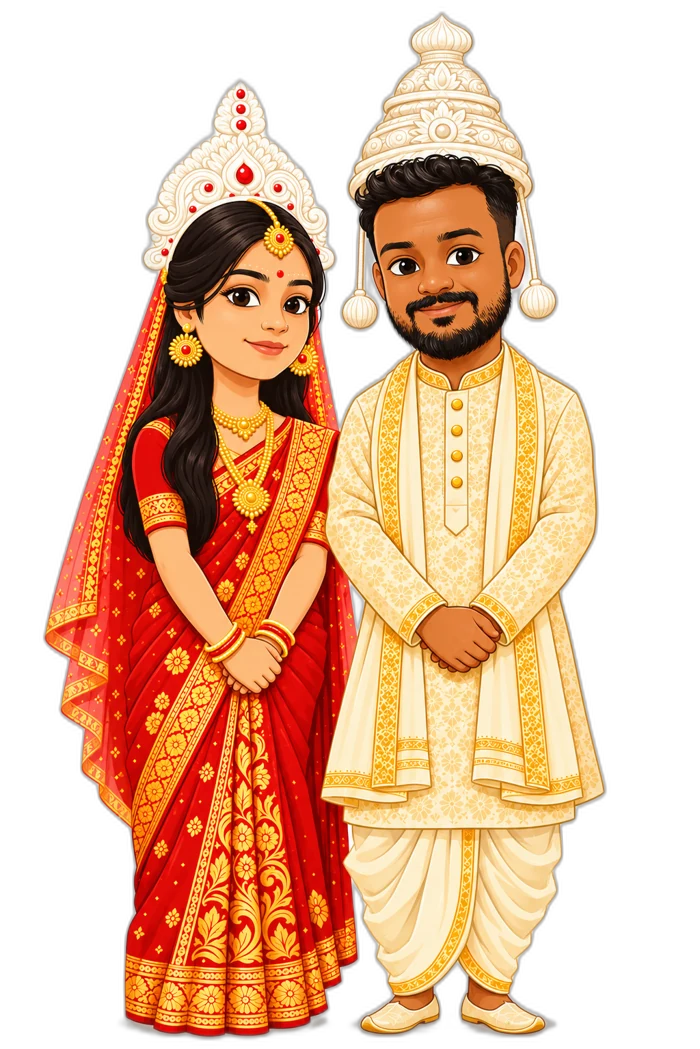
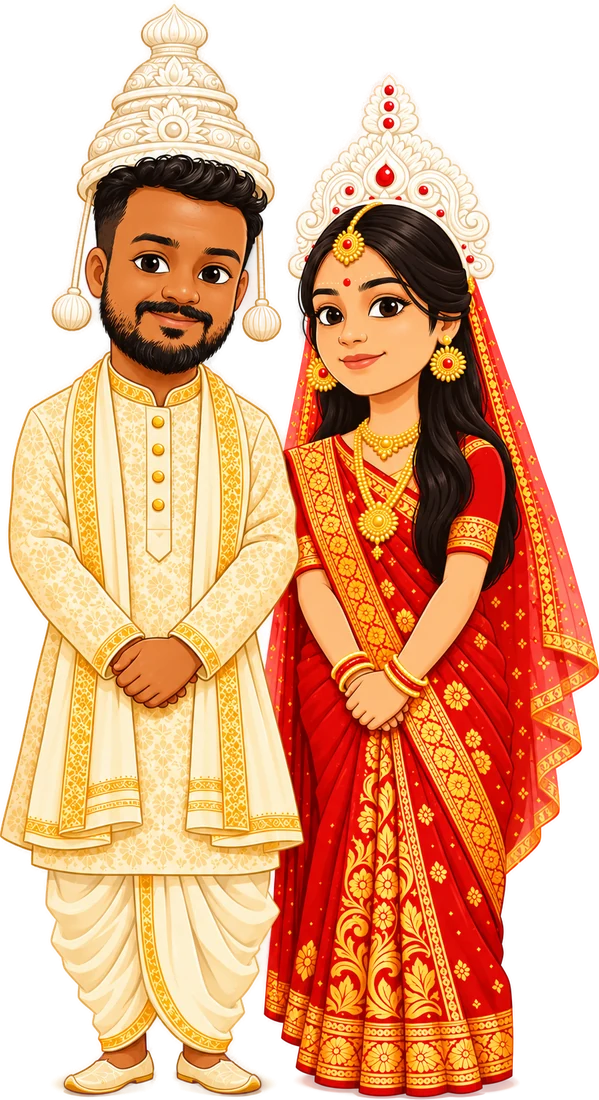
Review round 3: wording, dates, new couple picture, petal showers, seal burst
- শুভঃ → শুভ, আমার → আমাদের, new quote, বিবাহলগ্ন / Bibaha Lagna
- English shows the English date first, Bengali in brackets (and vice versa)
- প্রীতিভোজ = Banquet; bride card: বিবাহবাসর ও প্রীতিভোজ, বৈশালী ও অভিষেক
- Couple picture with groom left, bride right
- Seal tap: press, flash, sparkle and petal burst; petal shower again at the family panel
- Bride card: no glow at the top

Claude-Session: https://claude.ai/code/session_01A7U3bhfqdo6UgM5ft2nzAm

diff --git a/app.js b/app.js
@@ -11,13 +11,13 @@
       openHint: "সিলমোহরে ছুঁয়ে খুলুন",
       ganesh: "ওঁ শ্রী গণেশায় নমঃ",
       prajapati: "শ্রী শ্রী প্রজাপতয়ে নমঃ",
-      occasion: "শুভঃ বিবাহ",
+      occasion: "শুভ বিবাহ",
       familyTitle: "যাদের জন্য বাজবে সানাই&nbsp;।।",
       kalyaniyo: "কল্যাণীয়", kalyaniya: "কল্যাণীয়া",
       father: "পিতা", mother: "মাতা", brother: "ভ্রাতা",
       groomName: "অভিষেক দাস", groomFather: "শ্রী রবীন্দ্র নাথ দাস", groomMother: "শ্রীমতী অনিতা দাস",
       brideName: "বৈশালী কর", brideFather: "শ্রী বাবন কর", brideMother: "শ্রীমতী শিউলি কর", brideBrother: "কৌশিক কর",
-      quote: "দুটি প্রাণের মিলনে গড়বে নতুন পথ চলা,<br>হাসি আনন্দে ভরে উঠুক প্রতিটি দোলা।",
+      quote: "দুটি প্রাণের মিলনে গড়বে নতুন পথচলা,<br>হাসি আনন্দে ভরে উঠুক জীবনের প্রতিটি বেলা।",
       salutation: "সবিনয় নিবেদন,",
       nibedak: "নিবেদক",
       ritualTitle: "শুভ বিবাহের মুহূর্ত", rShubho: "শুভদৃষ্টি", rMala: "মালাবদল", rYagna: "সাত পাক ও যজ্ঞ", rSindoor: "সিঁদুর দান",
@@ -98,10 +98,17 @@
   function openInvitation() {
     if (opened) return;
     opened = true;
-    var steps = reduceMotion ? [0, 0, 0, 0] : [0, 380, 760, 1900];
+    var steps = reduceMotion ? [0, 0, 0, 0] : [160, 560, 940, 2100];
     document.getElementById("stage").classList.add("is-leaving");
     startMusic();
-    setTimeout(function () { envelope.classList.add("is-opening"); }, steps[0]);
+    try { if (navigator.vibrate) navigator.vibrate(15); } catch (e) {}
+    envelope.classList.add("is-pressed");
+    setTimeout(function () {
+      envelope.classList.remove("is-pressed");
+      envelope.classList.add("is-opening");
+      var r = envelope.querySelector(".seal").getBoundingClientRect();
+      if (window.FX) FX.burst(r.left + r.width / 2, r.top + r.height / 2, 1);
+    }, steps[0]);
     setTimeout(function () { envelope.classList.add("flap-behind"); }, steps[1]);
     setTimeout(function () { envelope.classList.add("card-out"); }, steps[2]);
     setTimeout(function () {
@@ -109,7 +116,7 @@
       document.body.classList.add("is-open");
       document.getElementById("card").removeAttribute("aria-hidden");
       window.scrollTo(0, 0);
-      petalShower();
+      if (window.FX) FX.shower(70);
       sizeCoin();
       document.getElementById("music").hidden = false;
       startReveals();
@@ -159,24 +166,6 @@
     if (document.hidden) bgm.pause(); else play();
   });
 
-  /* ---------------- Petals (once, on open) ---------------- */
-  function petalShower() {
-    if (reduceMotion) return;
-    var box = document.getElementById("petals");
-    var colors = ["#F2A93B", "#E8862A", "#C9A04E", "#A3182F", "#F6C451"];
-    for (var i = 0; i < 34; i++) {
-      var p = document.createElement("span");
-      p.className = "petal";
-      p.style.left = Math.random() * 100 + "vw";
-      p.style.background = colors[i % colors.length];
-      p.style.setProperty("--d", 5 + Math.random() * 4 + "s");
-      p.style.setProperty("--x", (Math.random() - 0.5) * 140 + "px");
-      p.style.setProperty("--r", 300 + Math.random() * 500 + "deg");
-      p.style.animationDelay = Math.random() * 1.6 + "s";
-      box.appendChild(p);
-    }
-    setTimeout(function () { box.innerHTML = ""; }, 11000);
-  }
 
   /* ---------------- Scroll reveals (each section once) ---------------- */
   var countedUp = false;
@@ -192,6 +181,7 @@
         en.target.classList.add("in");
         io.unobserve(en.target);
         if (en.target.id === "countdown") countUp();
+        if (en.target.classList.contains("family") && window.FX) FX.shower(36);
       });
     }, { threshold: 0.1, rootMargin: "0px 0px -50px 0px" });
     els.forEach(function (el) { io.observe(el); });
@@ -259,7 +249,7 @@
     var data = ctx.getImageData(0, 0, canvas.width, canvas.height).data;
     var step = Math.max(4, Math.round(6 * dpr)), cw = canvas.width, ch = canvas.height, total = 0, clear = 0;
     for (var y = 0; y < ch; y += step) for (var x = 0; x < cw; x += step) { total++; if (data[(y * cw + x) * 4 + 3] < 40) clear++; }
-    if (total && clear / total > 0.5) { revealed = true; box.classList.add("is-revealed"); burst(); }
+    if (total && clear / total > 0.5) { revealed = true; box.classList.add("is-revealed"); var br = box.getBoundingClientRect(); if (window.FX) FX.burst(br.left + br.width / 2, br.top + br.height / 2, .7); }
   }
   function pos(e) { var b = canvas.getBoundingClientRect(); return { x: e.clientX - b.left, y: e.clientY - b.top }; }
   var drawing = false;
@@ -277,25 +267,6 @@
   });
   window.addEventListener("resize", sizeCoin);
 
-  function burst() {
-    if (reduceMotion) return;
-    var b = box.getBoundingClientRect(), layer = document.getElementById("petals");
-    var colors = ["#F2A93B", "#C9A04E", "#A3182F", "#F6C451"];
-    for (var i = 0; i < 26; i++) {
-      var p = document.createElement("span");
-      p.className = "petal";
-      p.style.cssText = "top:" + (b.top + b.height / 2) + "px;left:" + (b.left + b.width / 2) + "px;background:" + colors[i % 4] +
-        ";animation:none;transition:transform 1.4s cubic-bezier(.15,.7,.3,1),opacity 1.4s";
-      layer.appendChild(p);
-      (function (el, a, d) {
-        requestAnimationFrame(function () { requestAnimationFrame(function () {
-          el.style.transform = "translate(" + Math.cos(a) * d + "px," + (Math.sin(a) * d + 60) + "px) rotate(" + (a * 300) + "deg)";
-          el.style.opacity = "0";
-        }); });
-        setTimeout(function () { el.remove(); }, 1600);
-      })(p, Math.random() * Math.PI * 2, 90 + Math.random() * 110);
-    }
-  }
 
   /* ---------------- Countdown ---------------- */
   var target = new Date(W.event.countdownTo).getTime();

diff --git a/config.js b/config.js
@@ -8,38 +8,38 @@ window.WEDDING = {
   },
   "text": {
     "bn": {
-      "dbTitle": "শুভঃ বিবাহ",
+      "dbTitle": "শুভ বিবাহ",
       "dbWeekday": "বৃহস্পতিবার",
       "dbDay": "২৭",
       "dbSuffix": "শে",
       "dbMonth": "মাঘ",
       "dbYear": "১৪৩৩",
       "dbGreg": "(ইং ১১ই ফেব্রুয়ারি ২০২৭)",
-      "dbLagna": "শুভ লগ্ন: সন্ধ্যা ৫টা ২৬ মিঃ গতে<br>রাত্রি ৯টা ১৭ মিঃ মধ্যে",
-      "pageTitle": "অভিষেক ও বৈশালী | শুভঃ বিবাহ ও বৌভাত",
-      "letter": "আগামী ২৭শে মাঘ ১৪৩৩, বৃহস্পতিবার (ইংরেজি ১১ই ফেব্রুয়ারি ২০২৭) আমার পুত্র কল্যাণীয় <strong>অভিষেক</strong>-এর সহিত বানারহাট নিবাসী শ্রী বাবন কর মহাশয়ের কন্যা কল্যাণীয়া <strong>বৈশালী</strong>-র শুভ বিবাহ স্থির হইয়াছে। তদুপলক্ষে আগামী ১লা ফাল্গুন ১৪৩৩, রবিবার (ইংরেজি ১৪ই ফেব্রুয়ারি ২০২৭) সন্ধ্যা ৭টা থেকে বৌভাত ও প্রীতিভোজের আয়োজন করা হইয়াছে। এই শুভ অনুষ্ঠানে আপনি সবান্ধবে উপস্থিত থাকিয়া নবদম্পতিকে আশীর্বাদ করিলে বাধিত হইব।",
+      "dbLagna": "বিবাহলগ্ন: সন্ধ্যা ৫টা ২৬ মিঃ গতে<br>রাত্রি ৯টা ১৭ মিঃ মধ্যে",
+      "pageTitle": "অভিষেক ও বৈশালী | শুভ বিবাহ ও বৌভাত",
+      "letter": "আগামী ২৭শে মাঘ ১৪৩৩, বৃহস্পতিবার (ইংরেজি ১১ই ফেব্রুয়ারি ২০২৭) আমাদের পুত্র কল্যাণীয় <strong>অভিষেক</strong>-এর সহিত বানারহাট নিবাসী শ্রী বাবন কর মহাশয়ের কন্যা কল্যাণীয়া <strong>বৈশালী</strong>-র শুভ বিবাহ স্থির হইয়াছে। তদুপলক্ষে আগামী ১লা ফাল্গুন ১৪৩৩, রবিবার (ইংরেজি ১৪ই ফেব্রুয়ারি ২০২৭) সন্ধ্যা ৭টা থেকে বৌভাত ও প্রীতিভোজের আয়োজন করা হইয়াছে। এই শুভ অনুষ্ঠানে আপনি সবান্ধবে উপস্থিত থাকিয়া নবদম্পতিকে আশীর্বাদ করিলে বাধিত হইব।",
       "hosts": "শ্রী রবীন্দ্র নাথ দাস<br>শ্রীমতী অনিতা দাস",
       "hostPlace": "মালবাজার",
       "venueEvent": "বৌভাত ও প্রীতিভোজ",
-      "venueWhen": "১লা ফাল্গুন ১৪৩৩, রবিবার, সন্ধ্যা ৭টা থেকে",
+      "venueWhen": "১লা ফাল্গুন ১৪৩৩, রবিবার<br><span lang=\"en\">(Sunday, 14 February 2027)</span><br>সন্ধ্যা ৭টা থেকে",
       "venueName": "উদীচী ভবন",
       "venueAddr": "মালবাজার, জেলা জলপাইগুড়ি"
     },
     "en": {
       "dbTitle": "Shubho Bibaho",
       "dbWeekday": "Thursday",
-      "dbDay": "27",
+      "dbDay": "11",
       "dbSuffix": "th",
-      "dbMonth": "Magh",
-      "dbYear": "1433",
-      "dbGreg": "(11 February 2027)",
-      "dbLagna": "Lagna: 5:26 pm to 9:17 pm",
+      "dbMonth": "February",
+      "dbYear": "2027",
+      "dbGreg": "(২৭শে মাঘ ১৪৩৩, বৃহস্পতিবার)",
+      "dbLagna": "Bibaha Lagna: 5:26 pm to 9:17 pm",
       "pageTitle": "Avishek & Baishali | Wedding & Bou Bhaat",
-      "letter": "On Thursday, 27 Magh 1433 (11 February 2027), our son <strong>Avishek</strong> will be married to <strong>Baishali</strong>, daughter of Sri Baban Kar of Banarhat. To celebrate, we are hosting the Bou Bhaat and reception dinner on Sunday, 1 Falgun 1433 (14 February 2027), from 7 pm. We would be honoured if you join us with your family and bless the couple.",
+      "letter": "On Thursday, 11 February 2027 (২৭শে মাঘ ১৪৩৩), our son <strong>Avishek</strong> will be married to <strong>Baishali</strong>, daughter of Sri Baban Kar of Banarhat. To celebrate, we are hosting the Bou Bhaat and reception banquet on Sunday, 14 February 2027 (১লা ফাল্গুন ১৪৩৩), from 7 pm. We would be honoured if you join us with your family and bless the couple.",
       "hosts": "Sri Rabindra Nath Das<br>Smt. Anita Das",
       "hostPlace": "Malbazar",
-      "venueEvent": "Bou Bhaat &amp; reception",
-      "venueWhen": "Sunday, 14 February 2027, from 7 pm",
+      "venueEvent": "Bou Bhaat and Banquet",
+      "venueWhen": "Sunday, 14 February 2027<br>(১লা ফাল্গুন ১৪৩৩, রবিবার)<br>From 7 pm",
       "venueName": "Udichi Bhaban",
       "venueAddr": "Malbazar, Jalpaiguri"
     }

diff --git a/fx.js b/fx.js
@@ -1,0 +1,123 @@
+/* Petals and sparkles on one full-screen canvas.
+   FX.shower(count)  – petals drifting down from the top
+   FX.burst(x, y, k) – sparkles + petals flying out from a point (viewport px) */
+(function () {
+  "use strict";
+  var reduce = window.matchMedia("(prefers-reduced-motion: reduce)").matches;
+  var cv = document.createElement("canvas");
+  cv.className = "fx";
+  cv.setAttribute("aria-hidden", "true");
+  document.addEventListener("DOMContentLoaded", function () { document.body.appendChild(cv); });
+  var ctx = cv.getContext("2d"), dpr = 1, W = 0, H = 0, parts = [], running = false, last = 0;
+
+  function size() {
+    dpr = Math.min(window.devicePixelRatio || 1, 2);
+    W = window.innerWidth; H = window.innerHeight;
+    cv.width = W * dpr; cv.height = H * dpr;
+    ctx.setTransform(dpr, 0, 0, dpr, 0, 0);
+  }
+  size();
+  window.addEventListener("resize", size);
+
+  // marigold (orange, yellow), red rose, white rajanigandha
+  var KINDS = [
+    { w: 1, a: "#F7A21B", b: "#E06A0E", shape: "marigold" },
+    { w: 1, a: "#FFD34E", b: "#F0A20E", shape: "marigold" },
+    { w: .8, a: "#D6243A", b: "#8E1022", shape: "rose" },
+    { w: .45, a: "#FFFDF6", b: "#E9E1CC", shape: "rose" }
+  ];
+  function pick() {
+    var t = 0, r = Math.random() * 3.25;
+    for (var i = 0; i < KINDS.length; i++) { t += KINDS[i].w; if (r <= t) return KINDS[i]; }
+    return KINDS[0];
+  }
+  function petal(x, y, vx, vy, delay) {
+    var k = pick();
+    parts.push({ t: "p", k: k, x: x, y: y, vx: vx, vy: vy, s: 6 + Math.random() * 7,
+      rot: Math.random() * 6.28, vr: (Math.random() - .5) * 3, flip: Math.random() * 6.28, vf: 2 + Math.random() * 4,
+      sway: Math.random() * 6.28, life: 0, max: 7 + Math.random() * 4, delay: delay || 0 });
+  }
+  function sparkle(x, y, vx, vy) {
+    parts.push({ t: "s", x: x, y: y, vx: vx, vy: vy, s: 3 + Math.random() * 6, life: 0, max: .7 + Math.random() * .7,
+      tw: Math.random() * 6.28, c: Math.random() < .75 ? "#FFE7A3" : "#FFFFFF", delay: 0 });
+  }
+
+  function drawPetal(p) {
+    var sc = Math.cos(p.flip);                       // 3D tumble: squash on one axis
+    ctx.save();
+    ctx.translate(p.x, p.y); ctx.rotate(p.rot); ctx.scale(1, Math.max(.15, Math.abs(sc)));
+    var g = ctx.createLinearGradient(0, -p.s, 0, p.s);
+    g.addColorStop(0, sc > 0 ? p.k.a : p.k.b); g.addColorStop(1, sc > 0 ? p.k.b : p.k.a);
+    ctx.fillStyle = g;
+    ctx.beginPath();
+    if (p.k.shape === "marigold") {                  // frilled petal
+      ctx.moveTo(0, p.s);
+      ctx.quadraticCurveTo(-p.s * .9, p.s * .2, -p.s * .55, -p.s * .7);
+      ctx.lineTo(-p.s * .25, -p.s * .45); ctx.lineTo(0, -p.s * .85); ctx.lineTo(p.s * .25, -p.s * .45);
+      ctx.lineTo(p.s * .55, -p.s * .7);
+      ctx.quadraticCurveTo(p.s * .9, p.s * .2, 0, p.s);
+    } else {                                          // rose / rajanigandha petal
+      ctx.moveTo(0, p.s);
+      ctx.bezierCurveTo(-p.s, p.s * .3, -p.s * .7, -p.s, 0, -p.s * .8);
+      ctx.bezierCurveTo(p.s * .7, -p.s, p.s, p.s * .3, 0, p.s);
+    }
+    ctx.fill();
+    ctx.restore();
+  }
+  function drawSparkle(p, alpha) {
+    var r = p.s * (.6 + .4 * Math.abs(Math.sin(p.tw)));
+    ctx.save(); ctx.translate(p.x, p.y); ctx.globalAlpha = alpha;
+    ctx.fillStyle = p.c; ctx.shadowColor = "rgba(255,210,120,.9)"; ctx.shadowBlur = 8;
+    ctx.beginPath();
+    ctx.moveTo(0, -r); ctx.quadraticCurveTo(0, 0, r, 0); ctx.quadraticCurveTo(0, 0, 0, r);
+    ctx.quadraticCurveTo(0, 0, -r, 0); ctx.quadraticCurveTo(0, 0, 0, -r);
+    ctx.fill(); ctx.restore();
+  }
+
+  function frame(now) {
+    var dt = Math.min(.05, (now - last) / 1000 || 0); last = now;
+    ctx.clearRect(0, 0, W, H);
+    for (var i = parts.length - 1; i >= 0; i--) {
+      var p = parts[i];
+      if (p.delay > 0) { p.delay -= dt; continue; }
+      p.life += dt;
+      if (p.t === "p") {
+        p.vx *= .985; p.vy += (60 - p.vy) * .6 * dt;  // settle into a gentle fall
+        p.sway += dt * 1.6;
+        p.x += (p.vx + Math.sin(p.sway) * 22) * dt; p.y += p.vy * dt;
+        p.rot += p.vr * dt; p.flip += p.vf * dt;
+        var fade = p.life > p.max - 1 ? Math.max(0, p.max - p.life) : 1;
+        ctx.globalAlpha = .95 * fade; drawPetal(p); ctx.globalAlpha = 1;
+        if (p.life > p.max || p.y > H + 30) parts.splice(i, 1);
+      } else {
+        p.vx *= .92; p.vy = p.vy * .92 + 30 * dt; p.x += p.vx * dt; p.y += p.vy * dt; p.tw += dt * 14;
+        var a = 1 - p.life / p.max;
+        if (a <= 0) { parts.splice(i, 1); continue; }
+        drawSparkle(p, a);
+      }
+    }
+    if (parts.length) requestAnimationFrame(frame); else { running = false; ctx.clearRect(0, 0, W, H); }
+  }
+  function run() { if (!running) { running = true; last = performance.now(); requestAnimationFrame(frame); } }
+
+  window.FX = {
+    shower: function (n) {
+      if (reduce) return;
+      for (var i = 0; i < n; i++) petal(Math.random() * W, -20 - Math.random() * 60, (Math.random() - .5) * 30, 40 + Math.random() * 50, Math.random() * 2.6);
+      run();
+    },
+    burst: function (x, y, k) {
+      if (reduce) return;
+      k = k || 1;
+      for (var i = 0; i < 40 * k; i++) {
+        var a = Math.random() * 6.28, v = 160 + Math.random() * 260;
+        sparkle(x, y, Math.cos(a) * v, Math.sin(a) * v - 40);
+      }
+      for (var j = 0; j < 30 * k; j++) {
+        var b = Math.random() * 6.28, u = 120 + Math.random() * 220;
+        petal(x, y, Math.cos(b) * u, Math.sin(b) * u - 120, 0);
+      }
+      run();
+    }
+  };
+})();

diff --git a/index.html b/index.html
@@ -30,7 +30,7 @@
     <div class="env-card" aria-hidden="true">
       <img class="only-groom" src="img/ganesh-line.webp" alt="">
       <img class="only-bride" src="img/ganesh-gold.webp" alt="">
-      <span class="env-card-names">অভিষেক ও বৈশালী</span>
+      <span class="env-card-names" data-i="together">অভিষেক ও বৈশালী</span>
     </div>
     <svg class="env-pocket" viewBox="0 0 400 280" preserveAspectRatio="none" aria-hidden="true">
       <defs>
@@ -51,6 +51,7 @@
       <p class="env-title">শ্রী শ্রী প্রজাপতয়ে নমঃ</p>
     </div>
     <div class="env-alpona" data-decor="alpona" aria-hidden="true"></div>
+    <div class="seal-flash" aria-hidden="true"></div>
     <div class="seal" aria-hidden="true">
       <img class="seal-l" src="img/wax-stamp.webp" alt="">
       <img class="seal-r" src="img/wax-stamp.webp" alt="">
@@ -85,13 +86,13 @@
   </header>
 
   <!-- 2. Title -->
-  <h1 class="occasion" data-i="occasion">শুভঃ বিবাহ</h1>
+  <h1 class="occasion" data-i="occasion">শুভ বিবাহ</h1>
 
   <!-- 3. Date reveal -->
   <section class="datebox-wrap rv" aria-label="বিবাহের তারিখ">
     <div class="datebox" id="coin">
       <div class="datebox-face">
-        <p class="db-title" data-i="dbTitle">শুভঃ বিবাহ</p>
+        <p class="db-title" data-i="dbTitle">শুভ বিবাহ</p>
         <div class="db-row">
           <span class="db-side" data-i="dbWeekday">বৃহস্পতিবার</span>
           <span class="db-day"><b data-i="dbDay">২৭</b><small data-i="dbSuffix">শে</small></span>
@@ -119,7 +120,7 @@
 
   <figure class="couple rv">
     <img class="couple-halo" src="img/mandala.webp" alt="">
-    <img class="couple-img" src="img/couple.webp" alt="অভিষেক ও বৈশালী" width="700" height="1049">
+    <img class="couple-img" src="img/couple.webp" alt="অভিষেক ও বৈশালী" width="599" height="1100">
   </figure>
 
   <!-- 6. Families -->
@@ -178,7 +179,7 @@
   <!-- 7–8. Quote and letter -->
   <section class="letter kantha rv">
     <img class="motif motif-paan" src="img/art/paan.webp" alt="" width="403" height="420" loading="lazy">
-    <blockquote class="quote" data-i="quote">দুটি প্রাণের মিলনে গড়বে নতুন পথ চলা,<br>হাসি আনন্দে ভরে উঠুক প্রতিটি দোলা।</blockquote>
+    <blockquote class="quote" data-i="quote">দুটি প্রাণের মিলনে গড়বে নতুন পথচলা,<br>হাসি আনন্দে ভরে উঠুক জীবনের প্রতিটি বেলা।</blockquote>
     <p class="salutation" data-i="salutation">সবিনয় নিবেদন,</p>
     <p class="letter-body" data-i="letter"></p>
   </section>
@@ -231,6 +232,7 @@
 </button>
 <audio id="bgm" loop preload="none"></audio>
 <div class="petals" id="petals" aria-hidden="true"></div>
+<script src="fx.js"></script>
 <script src="decor.js"></script>
 <script src="app.js"></script>
 </body>

diff --git a/styles.css b/styles.css
@@ -411,3 +411,21 @@ html[data-theme="bride"] .motif-paan{ filter:brightness(0) saturate(100%) invert
 html[data-theme="bride"] .couple-img{ filter:drop-shadow(0 0 .8px rgba(243,233,213,.45)) drop-shadow(0 12px 16px rgba(0,0,0,.35)); }
 html[data-theme="bride"] .motif-fish, html[data-theme="bride"] .motif-palki{ filter:drop-shadow(0 0 .8px rgba(243,233,213,.45)) drop-shadow(0 6px 10px rgba(0,0,0,.25)); }
 .om{ box-shadow:0 0 0 2px var(--gold-light), 0 0 10px rgba(232,205,134,.25); }
+
+/* ---------- Review round 3 ---------- */
+/* bride card: no glow at the top */
+html[data-theme="bride"] .card{ background:var(--noise), var(--card); }
+html[data-theme="bride"] .occasion{ text-shadow:none; }
+html[data-theme="bride"]{ --page-glow:transparent; }
+/* new couple picture */
+.couple{ aspect-ratio:599/1100; width:min(270px,78%); }
+/* English date in a Bengali line */
+.venue-when span[lang="en"]{ font-family:"Cormorant Garamond",serif; font-size:1.1em; }
+/* petals & sparkles canvas */
+.fx{ position:fixed; inset:0; width:100%; height:100%; pointer-events:none; z-index:40; }
+/* seal press + flash */
+.envelope.is-pressed .seal{ transform:translate(-50%,-50%) scale(.9); transition:transform .12s ease; }
+.seal-flash{ position:absolute; left:50%; top:59%; width:70%; aspect-ratio:1; transform:translate(-50%,-50%) scale(.2); border-radius:50%; z-index:7;
+  background:radial-gradient(circle, rgba(255,240,200,.95), rgba(255,210,120,.45) 35%, transparent 70%); opacity:0; pointer-events:none; }
+.envelope.is-opening .seal-flash{ animation:sealflash .7s ease-out forwards; }
+@keyframes sealflash{ 0%{ opacity:0; transform:translate(-50%,-50%) scale(.2); } 25%{ opacity:1; } 100%{ opacity:0; transform:translate(-50%,-50%) scale(1.6); } }
